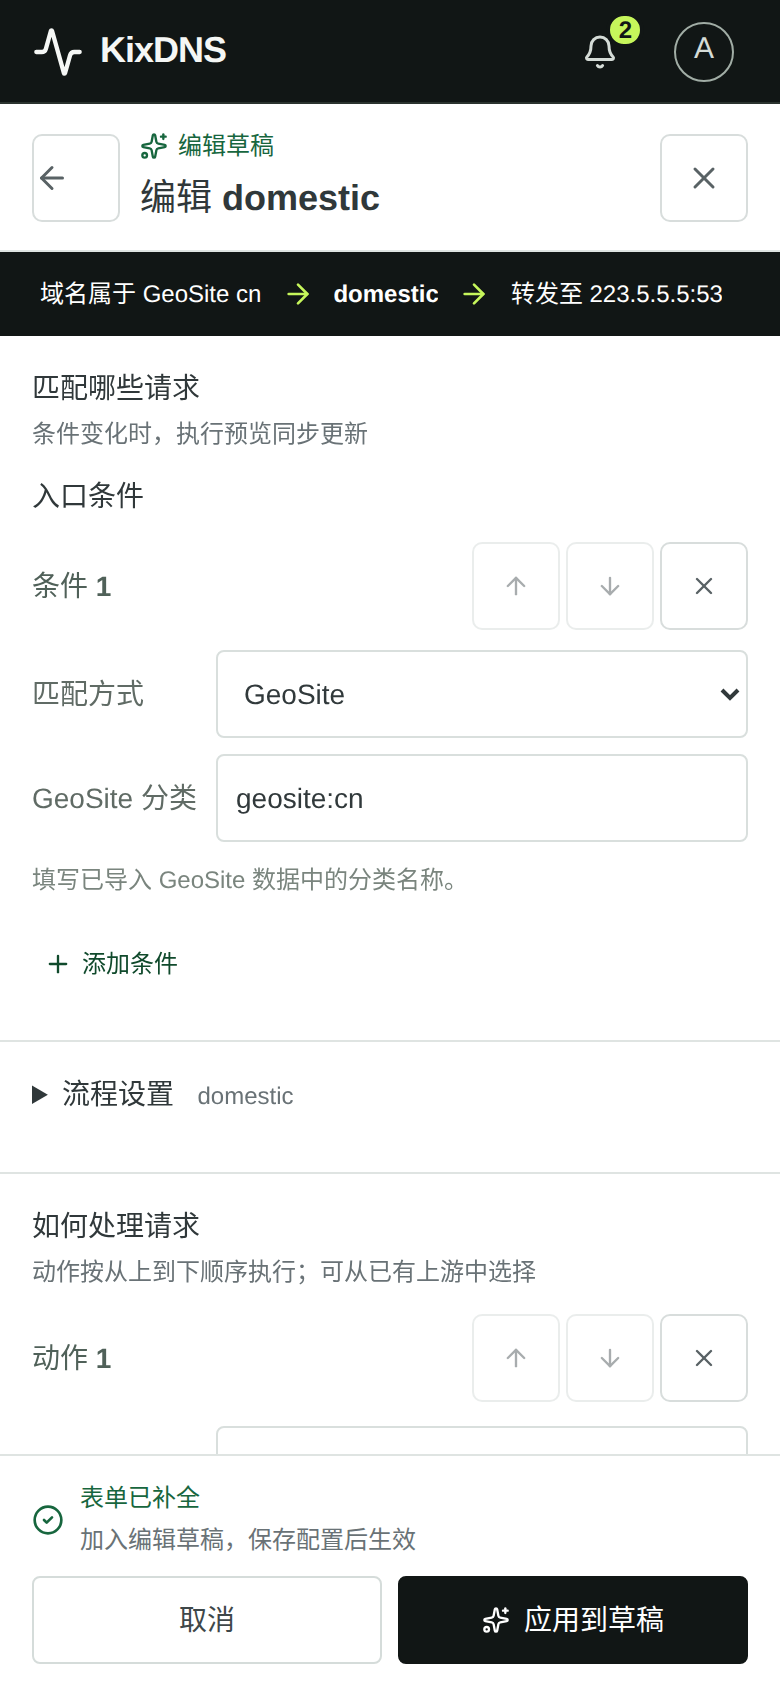
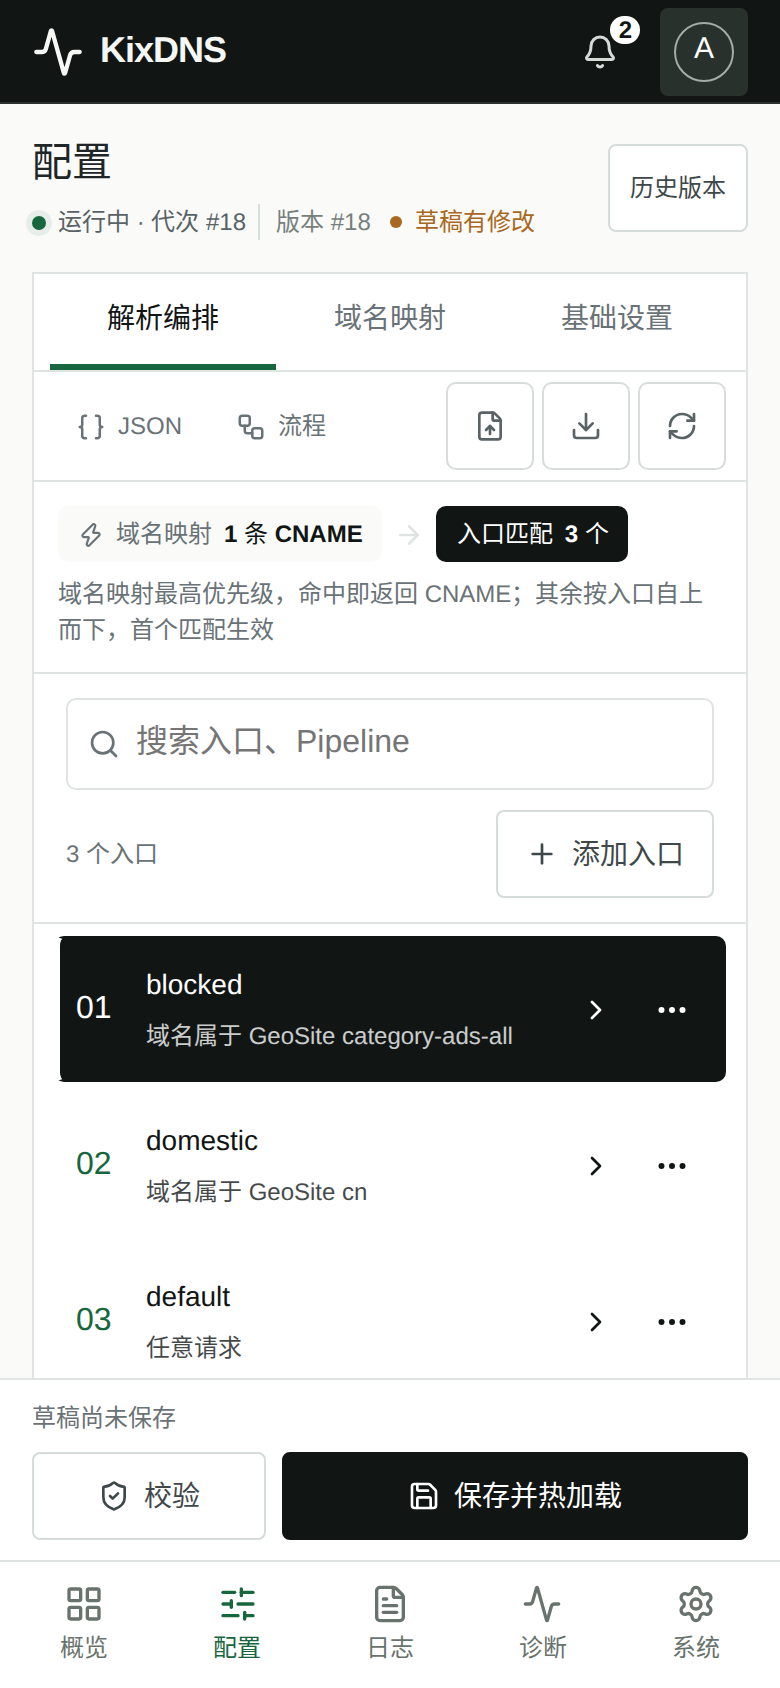
docs: refresh the README for the v3 console
界面预览那六张图还停在 v2.0.0（9 月 5 日），是五个页面重做之前的界面——堆叠条、
九列上游台账、满屏绿色。现在的产品长得完全不是那样，读者按图找不到对应的东西。
六张全部按同样的尺寸重截：桌面 1440 宽整页，手机 390×844 二倍图。

配置那张单独说明：演示数据里只有一个 default 管线、零个入口，直接截出来是一页
「暂无入口」，只有页面骨架、看不出这一页能做什么。截图时用页面自带的导入按钮
装了一份真实配置——是产品自己的路径，没有改任何源码或演示数据。

能力清单里「可展开执行轨迹」是错的：诊断按设计稿改成逐段直接摊开之后已经不用点。
顺带补上 3.0.0 起用户能看见、清单里却没有的几项：概览的请求量趋势、会话过期原地
重新验证与草稿保留、写明后果的确认框、不自动消失的失败提示、与结果同版式的骨架。

The six preview images were still from v2.0.0 (5 September), the console as it
looked before all five pages were rebuilt — stacked bar, nine-column upstream
table, green throughout. The product no longer looks anything like that, so a
reader cannot match the pictures to what they see. All six are retaken at the
same sizes as before: 1440-wide full pages for the desktop, 390x844 at 2x for
the phone.

The configuration shot needs a note: the demo data holds a single default
pipeline and no entries, so shooting it directly yields a page reading "no
entries yet" — the page's frame and nothing it can do. The screenshot run loads
a real config through the page's own import control, which is the product's own
path and changes no source or demo data.

"Expandable execution trace" in the capability list was wrong: the diagnostics
page lays every stage out inline since it was rebuilt to the mockup, with
nothing to click. Several things visible to users since 3.0.0 but missing from
the list are added alongside: the overview's request trend, re-authenticating in
[…]

diff --git a/README.md b/README.md
@@ -45,7 +45,10 @@ KixDNS 的非 Fork 增强发行版与管理面板。项目维护上游正式 Rel
 - 系统页可选配置 GitHub Token，将元数据 API 配额从匿名 60 次/小时提升到认证配额；Token 不会发送到 nightly.link
 - 版本激活健康检查、失败自动恢复与最多 8 个本地版本的受控库存
 - Vue 3 响应式控制台，桌面顶部导航、移动端底部导航与紧凑行式表单
-- 概览保留累计请求与 Pipeline 分布，诊断集中展示 DNS 应答、命中规则与可展开执行轨迹
+- 概览以一条信号带承载累计请求、完成率与平均耗时，并按面板自采样本画出请求量趋势
+- 诊断集中展示 DNS 应答、命中规则与逐段直接摊开的执行轨迹，无需逐步点开
+- 会话过期在原页重新验证，未保存的配置草稿原样保留；确认框写明将要发生什么，失败提示不自动消失
+- 各页加载显示与结果同版式的骨架，数据到达时不跳版
 - 面板与两条增强内核轨道独立构建 x86_64/ARM64 Artifact，自动跟随并续期已验证上游
 - 发布前真实启动增强进程，验证 DNS 应答、内部指标与结构化热加载回执
 - 完整包在 Ubuntu 22.04 临时机执行安装、覆盖升级、面板联调、systemd 控制与卸载验收
